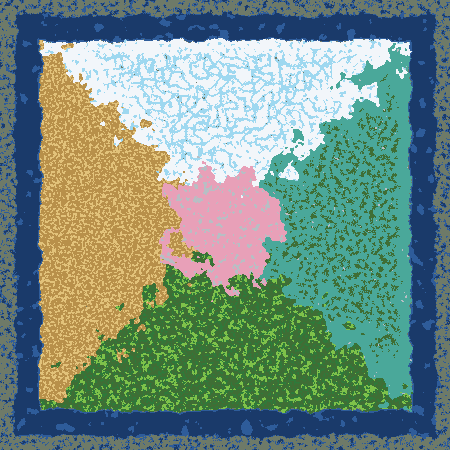
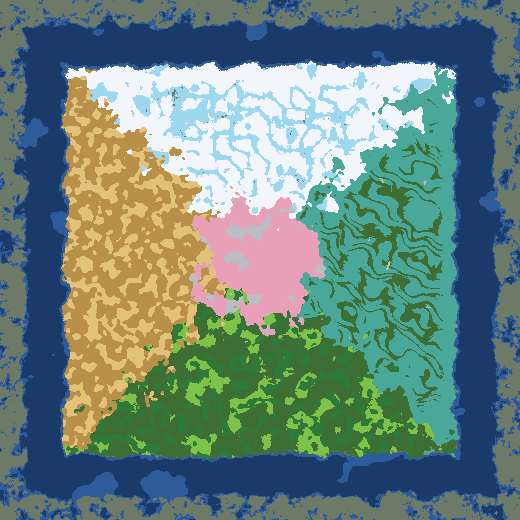
Shrink the Murim map to 40 000 x 40 000 blocks
Every region within a session's reach, room left for the sites, the capitals
and the roads. The regions' borders wander at the same relative scale; the
north's ranges and the east's hills are a little closer together. Old worlds
need a new one.

diff --git a/src/test/java/com/murimblock/world/map/MurimMapTest.java b/src/test/java/com/murimblock/world/map/MurimMapTest.java
@@ -10,34 +10,34 @@ class MurimMapTest {
     @Test
     void theRegionsLieWhereTheMapSays() {
         assertEquals(MurimMap.Region.CENTER, MurimMap.region(0, 0));
-        assertEquals(MurimMap.Region.NORTH, MurimMap.region(0, -60_000));
-        assertEquals(MurimMap.Region.SOUTH, MurimMap.region(0, 60_000));
-        assertEquals(MurimMap.Region.WEST, MurimMap.region(-60_000, 0));
-        assertEquals(MurimMap.Region.EAST, MurimMap.region(60_000, 0));
+        assertEquals(MurimMap.Region.NORTH, MurimMap.region(0, -16_000));
+        assertEquals(MurimMap.Region.SOUTH, MurimMap.region(0, 16_000));
+        assertEquals(MurimMap.Region.WEST, MurimMap.region(-16_000, 0));
+        assertEquals(MurimMap.Region.EAST, MurimMap.region(16_000, 0));
     }
 
     @Test
     void theAllianceOutpostsStandInTheCentreOrOnAFrontier() {
         assertTrue(MurimMap.centreOrFrontier(0, 0, 1500));
         // Deep in a region, far from any frontier: refused.
-        assertFalse(MurimMap.centreOrFrontier(0, -55_000, 1500));
-        assertFalse(MurimMap.centreOrFrontier(55_000, 0, 1500));
+        assertFalse(MurimMap.centreOrFrontier(0, -15_000, 1500));
+        assertFalse(MurimMap.centreOrFrontier(15_000, 0, 1500));
         // Walking out from the centre to the north, the frontier is crossed once: near it allowed, past it refused.
         int frontier = 0;
-        for (int z = 0; z > -60_000; z -= 100) if (MurimMap.region(0, z) != MurimMap.Region.CENTER) { frontier = z; break; }
-        assertTrue(frontier < -10_000, "the centre ends at " + frontier);
+        for (int z = 0; z > -18_000; z -= 50) if (MurimMap.region(0, z) != MurimMap.Region.CENTER) { frontier = z; break; }
+        assertTrue(frontier < -3_000, "the centre ends at " + frontier);
         assertTrue(MurimMap.centreOrFrontier(0, frontier - 800, 1500));
-        assertFalse(MurimMap.centreOrFrontier(0, frontier - 8_000, 1500));
+        assertFalse(MurimMap.centreOrFrontier(0, frontier - 5_000, 1500));
         // A frontier between two outer regions (on the diagonal, far out) also counts.
         boolean onDiagonal = false;
-        for (int k = 30_000; k < 60_000 && !onDiagonal; k += 500) onDiagonal = MurimMap.region(k, -k) != MurimMap.region(k + 3_000, -k + 3_000) && MurimMap.centreOrFrontier(k, -k, 1500);
+        for (int k = 6_000; k < 16_000 && !onDiagonal; k += 200) onDiagonal = MurimMap.region(k, -k) != MurimMap.region(k + 1_000, -k + 1_000) && MurimMap.centreOrFrontier(k, -k, 1500);
         assertTrue(onDiagonal);
     }
 
     @Test
     void theLayoutIsTheSameInEveryWorld() {
         // No seed in it: asked twice, the same answers.
-        for (int x = -70_000; x <= 70_000; x += 9_973) for (int z = -70_000; z <= 70_000; z += 7_919) {
+        for (int x = -18_000; x <= 18_000; x += 2_659) for (int z = -18_000; z <= 18_000; z += 2_111) {
             assertEquals(MurimMap.region(x, z), MurimMap.region(x, z));
         }
     }
@@ -45,36 +45,36 @@ class MurimMapTest {
     @Test
     void theBubbleIsLandAndTheRingIsDeepSea() {
         // Inside, even vanilla's deepest sea becomes land; the ring is deep sea whatever vanilla had; beyond, vanilla.
-        assertTrue(MurimMap.continents(10_000, -20_000, -1.0) >= MurimMap.LAND);
+        assertTrue(MurimMap.continents(3_000, -6_000, -1.0) >= MurimMap.LAND);
         assertEquals(0.7, MurimMap.continents(0, 0, 0.7), 1e-9);
-        assertTrue(MurimMap.inBubble(0, 0) && MurimMap.inBubble(70_000, -70_000));
-        assertFalse(MurimMap.inBubble(78_000, 0));
-        assertEquals(MurimMap.DEEP_SEA, MurimMap.continents(80_000, 0, 0.8), 1e-9);
-        assertEquals(MurimMap.DEEP_SEA, MurimMap.continents(-5_000, -81_000, 0.3), 1e-9);
-        assertEquals(0.42, MurimMap.continents(95_000, 0, 0.42), 1e-9);
+        assertTrue(MurimMap.inBubble(0, 0) && MurimMap.inBubble(18_500, -18_500));
+        assertFalse(MurimMap.inBubble(21_000, 0));
+        assertEquals(MurimMap.DEEP_SEA, MurimMap.continents(22_000, 0, 0.8), 1e-9);
+        assertEquals(MurimMap.DEEP_SEA, MurimMap.continents(-2_000, -22_000, 0.3), 1e-9);
+        assertEquals(0.42, MurimMap.continents(26_000, 0, 0.42), 1e-9);
         // The coastline wanders: not one straight edge.
-        double a = MurimMap.reach(75_000, 0), b = MurimMap.reach(75_000, 20_000);
+        double a = MurimMap.reach(20_000, 0), b = MurimMap.reach(20_000, 6_000);
         assertNotEquals(a, b, 1.0);
     }
 
     @Test
     void theNorthRisesIntoRangesTheEastAndSouthIntoHills() {
         // Nothing raised at the centre, in the west, nor in the ocean.
-        for (int[] p : new int[][]{{0, 0}, {-50_000, 0}, {0, -82_000}, {82_000, 0}}) {
+        for (int[] p : new int[][]{{0, 0}, {-13_000, 0}, {0, -22_000}, {22_000, 0}}) {
             assertEquals(0, MurimMap.uplift(p[0], p[1]), 1e-9, "raised at " + p[0] + ", " + p[1]);
         }
         // The east and the south: rolling hills, never more than the hills' height, the south's lower.
         double east = 0, south = 0;
-        for (int k = -15_000; k <= 15_000; k += 500) {
-            east = Math.max(east, MurimMap.uplift(50_000, k));
-            south = Math.max(south, MurimMap.uplift(k, 50_000));
+        for (int k = -4_000; k <= 4_000; k += 100) {
+            east = Math.max(east, MurimMap.uplift(13_000, k));
+            south = Math.max(south, MurimMap.uplift(k, 13_000));
         }
         assertTrue(east > MurimMap.HILLS * 0.5 && east <= MurimMap.HILLS + 1e-9, "the east's hills: " + east);
         assertTrue(south > 0 && south <= MurimMap.HILLS * 0.5 + 1e-9, "the south's hills: " + south);
         // The north: at least its plateau everywhere, and somewhere along it the ranges reach high.
         double highest = 0;
-        for (int x = -15_000; x <= 15_000; x += 500) { // the heart of the north (its edges fade out on purpose)
-            double u = MurimMap.uplift(x, -50_000);
+        for (int x = -4_000; x <= 4_000; x += 100) { // the heart of the north (its edges fade out on purpose)
+            double u = MurimMap.uplift(x, -13_000);
             assertTrue(u >= MurimMap.UPLIFT * MurimMap.PLATEAU - 1e-9, "no plateau at " + x);
             highest = Math.max(highest, u);
         }

diff --git a/src/main/java/com/murimblock/world/map/MurimMap.java b/src/main/java/com/murimblock/world/map/MurimMap.java
@@ -5,8 +5,9 @@ import net.minecraft.world.level.levelgen.XoroshiroRandomSource;
 import net.minecraft.world.level.levelgen.synth.SimplexNoise;
 
 /**
- * The map of the Murim world (docs/biomes/murim-map.md): a bubble of 150 000 x 150 000 blocks round the origin where
- * every land biome is a Murim one, an ocean 10 000 blocks wide around it, then the vanilla world.
+ * The map of the Murim world (docs/biomes/murim-map.md): a bubble of 40 000 x 40 000 blocks round the origin where
+ * every land biome is a Murim one, an ocean 4 000 blocks wide around it, then the vanilla world. (150 000 until
+ * 16/10/2026: Enzo chose a smaller world, every region within reach of a session, room left for the structures.)
  * <p>
  * Inside, the land is split into fixed regions, the same in every world (the seed only changes the biomes' patches
  * within a region, the relief and where the structures fall): the central mountains and valleys, the snows of the
@@ -14,14 +15,18 @@ import net.minecraft.world.level.levelgen.synth.SimplexNoise;
  * its own, seeded with a constant), so no line is straight.
  */
 public final class MurimMap {
-    /** Half the bubble's side: the Murim lands span -75 000 to 75 000 on both axes. */
-    public static final int RADIUS = 75_000;
+    /** Half the bubble's side: the Murim lands span -20 000 to 20 000 on both axes. */
+    public static final int RADIUS = 20_000;
     /** The ocean round the bubble. */
-    public static final int RING = 10_000;
+    public static final int RING = 4_000;
     /** Width of the shore at the bubble's edge, and of the ocean's return to the vanilla relief. */
-    public static final int EDGE = 2_000;
+    public static final int EDGE = 1_000;
     /** How far the coastline wanders from the square (blocks). */
-    public static final int COAST_WANDER = 1_500;
+    public static final int COAST_WANDER = 600;
+    /** The scale of the regions' wandering borders, against the map's first size (75 000). */
+    private static final double SCALE = RADIUS / 75_000.0;
+    /** The relief's fade towards the coast: from this far inside the shore, over this width. */
+    private static final int COAST_FADE_FROM = 1_000, COAST_FADE = 2_000;
 
     /** Continentalness kept at least inside (near inland: no sea), and the ocean's (deep ocean, not mushroom fields). */
     public static final double LAND = 0.05, SHORE_SEA = -0.6, DEEP_SEA = -0.8;
@@ -57,7 +62,7 @@ public final class MurimMap {
 
     /** A wandering of about -1 to 1, broad and then finer. */
     private static double wander(SimplexNoise noise, double x, double z) {
-        return 0.75 * noise.getValue(x / 14_000.0, z / 14_000.0) + 0.25 * noise.getValue(x / 3_500.0, z / 3_500.0);
+        return 0.75 * noise.getValue(x / (14_000.0 * SCALE), z / (14_000.0 * SCALE)) + 0.25 * noise.getValue(x / (3_500.0 * SCALE), z / (3_500.0 * SCALE));
     }
 
     /** How far out a block lies: the square's distance, its coastline wandering. */
@@ -132,7 +137,7 @@ public final class MurimMap {
         double v = (double) z / RADIUS + 0.16 * wander(noiseB, x, z);
         double r = Math.sqrt(u * u + v * v), a = Math.atan2(v, u);
         double out = smooth((r - CENTER_SHARE) / 0.12);
-        double coast = smooth((RADIUS - 3_000 - reach(x, z)) / 5_000);
+        double coast = smooth((RADIUS - COAST_FADE_FROM - reach(x, z)) / COAST_FADE);
         // The east sector (-pi/4 to pi/4) in full, the south (pi/4 to 3pi/4) at half.
         double east = smooth(Math.min(a + Math.PI / 4, Math.PI / 4 - a) / 0.22);
         double south = smooth(Math.min(a - Math.PI / 4, 3 * Math.PI / 4 - a) / 0.22) * 0.5;
@@ -140,8 +145,8 @@ public final class MurimMap {
         if (w <= 0) return 0;
         // Long hills: ridged noise stretched along one direction (turned 30 degrees off east, made to wander), so the
         // crests run on for kilometres, side by side, with long valleys between them.
-        double along = x * COS + z * SIN, across = -x * SIN + z * COS + 1_400 * noiseG.getValue(x / 6_000.0, z / 6_000.0);
-        double crest = 1 - Math.abs(noiseF.getValue(along / 9_000.0, across / 1_700.0));
+        double along = x * COS + z * SIN, across = -x * SIN + z * COS + 900 * noiseG.getValue(x / 3_500.0, z / 3_500.0);
+        double crest = 1 - Math.abs(noiseF.getValue(along / 5_000.0, across / 1_700.0));
         double fine = 1 - Math.abs(noiseG.getValue(along / 2_600.0, across / 650.0));
         double h = crest * crest * 0.75 + fine * fine * 0.25;
         return w * Math.max(0, (h - 0.3) / 0.7);
@@ -165,11 +170,11 @@ public final class MurimMap {
         // Inside the north sector (-3pi/4 to -pi/4), out of the centre, away from the coast: 1; fading over the edges.
         double sector = smooth(Math.min(a + 3 * Math.PI / 4, -Math.PI / 4 - a) / 0.22);
         double out = smooth((r - CENTER_SHARE) / 0.12);
-        double coast = smooth((RADIUS - 3_000 - reach(x, z)) / 5_000);
+        double coast = smooth((RADIUS - COAST_FADE_FROM - reach(x, z)) / COAST_FADE);
         double w = sector * out * coast;
         if (w <= 0) return new double[]{0, 0};
-        double broad = 1 - Math.abs(noiseD.getValue(x / 7_000.0, z / 7_000.0));
-        double fine = 1 - Math.abs(noiseE.getValue(x / 2_200.0, z / 2_200.0));
+        double broad = 1 - Math.abs(noiseD.getValue(x / 3_500.0, z / 3_500.0));
+        double fine = 1 - Math.abs(noiseE.getValue(x / 1_400.0, z / 1_400.0));
         double ridge = broad * broad * 0.7 + fine * fine * 0.3;
         return new double[]{w, Math.max(0, (ridge - 0.32) / 0.68)};
     }

diff --git a/src/gameTest/java/com/murimblock/MurimMapGameTests.java b/src/gameTest/java/com/murimblock/MurimMapGameTests.java
@@ -33,7 +33,7 @@ import org.slf4j.Logger;
 
 /**
  * The Murim map with the real noise (docs/biomes/murim-map.md): the "normal" world preset puts it on the overworld,
- * and over the whole map (a sample every 400 blocks, two seeds) every land block of the bubble has a Murim biome of
+ * and over the whole map (a sample every 100 blocks, two seeds) every land block of the bubble has a Murim biome of
  * its own region, the ring is deep ocean and the world beyond is vanilla. It also draws the map: murim-map-<seed>.png
  * in the GameTest server's folder (build/game-test-run).
  */
@@ -41,7 +41,7 @@ import org.slf4j.Logger;
 @PrefixGameTestTemplate(false)
 public final class MurimMapGameTests {
     private static final Logger LOGGER = LogUtils.getLogger();
-    private static final int HALF = 90_000, STEP = 400;
+    private static final int HALF = MurimMap.RADIUS + MurimMap.RING + 2_000, STEP = 100;
 
     private MurimMapGameTests() { }
 
@@ -78,7 +78,7 @@ public final class MurimMapGameTests {
     }
 
     /**
-     * The north's ranges: the ground's height over the whole north (a point every 1 000 blocks), with the real terrain
+     * The north's ranges: the ground's height over the whole north (a point every 250 blocks), with the real terrain
      * noise. Immense (the highest well above vanilla's usual peaks) without ever reaching the world's ceiling.
      */
     @GameTest(template = "foundation_arena", batch = "murim_map_heights", timeoutTicks = 2000)
@@ -94,7 +94,7 @@ public final class MurimMapGameTests {
         var heightAccessor = net.minecraft.world.level.LevelHeightAccessor.create(-64, 384);
         int highest = 0, count = 0, above200 = 0;
         long sum = 0;
-        for (int x = -60_000; x <= 60_000; x += 1_000) for (int z = -72_000; z <= -25_000; z += 1_000) {
+        for (int x = -16_000; x <= 16_000; x += 250) for (int z = -19_000; z <= -6_000; z += 250) {
             if (MurimMap.region(x, z) != MurimMap.Region.NORTH) continue;
             int h = generator.getBaseHeight(x, z, net.minecraft.world.level.levelgen.Heightmap.Types.WORLD_SURFACE_WG, heightAccessor, state);
             highest = Math.max(highest, h);
@@ -138,12 +138,12 @@ public final class MurimMapGameTests {
                     wrong++;
                     if (firstWrong == null) firstWrong = key.location() + " in the " + region + " at " + x + ", " + z;
                 }
-            } else if (reach < MurimMap.RADIUS - 3_000 && !sea && !b.is(BiomeTags.IS_BEACH) && !b.is(BiomeTags.IS_RIVER)
+            } else if (reach < MurimMap.RADIUS - MurimMap.EDGE - 200 && !sea && !b.is(BiomeTags.IS_BEACH) && !b.is(BiomeTags.IS_RIVER)
                     && !b.is(net.minecraft.world.level.biome.Biomes.DRIPSTONE_CAVES) && !b.is(net.minecraft.world.level.biome.Biomes.LUSH_CAVES)
                     && !b.is(net.minecraft.world.level.biome.Biomes.DEEP_DARK)) {
                 insideVanillaLand++;
             }
-            if (reach > MurimMap.RADIUS + 2_500 && reach < MurimMap.RADIUS + MurimMap.RING - 2_500 && !sea) ringLand++;
+            if (reach > MurimMap.RADIUS + MurimMap.EDGE + 200 && reach < MurimMap.RADIUS + MurimMap.RING - MurimMap.EDGE - 200 && !sea) ringLand++;
             int colour = COLOURS.getOrDefault(key, sea ? (b.is(BiomeTags.IS_DEEP_OCEAN) ? 0x1A3A6A : 0x2E5C9A) : 0x6E7A68);
             map.setRGB(px, pz, colour);
         }

diff --git a/src/gameTest/java/com/murimblock/BiomeTour.java b/src/gameTest/java/com/murimblock/BiomeTour.java
@@ -91,7 +91,7 @@ public final class BiomeTour {
 
     /** Where to look for a biome on the Murim map: the heart of its region (the centre's own at the origin). */
     static BlockPos regionHeart(ResourceKey<Biome> biome) {
-        int far = 45_000;
+        int far = com.murimblock.world.map.MurimMap.RADIUS * 3 / 5;
         if (biome == MurimBiomes.TIANSHAN_SNOWFIELDS || biome == MurimBiomes.KUNLUN_GLACIERS) return new BlockPos(0, 80, -far);
         if (biome == MurimBiomes.HEXI_FRONTIER_DESERT || biome == MurimBiomes.LOESS_PLATEAU) return new BlockPos(-far, 80, 0);
         if (biome == MurimBiomes.JADE_KARST_FOREST || biome == MurimBiomes.SHU_BAMBOO_SEA) return new BlockPos(0, 80, far);
@@ -338,15 +338,15 @@ public final class BiomeTour {
     private static void coast(Minecraft mc) throws Exception {
         coastTicks++;
         var server = mc.getSingleplayerServer();
-        int shore = com.murimblock.world.map.MurimMap.RADIUS - 1_500;
+        int shore = com.murimblock.world.map.MurimMap.RADIUS - 400;
         switch (coastTicks) {
             case 1 -> server.execute(() -> {
                 ServerLevel level = server.overworld();
                 var source = level.getChunkSource().getGenerator().getBiomeSource();
                 var sampler = level.getChunkSource().randomState().sampler();
                 java.util.function.IntFunction<String> at = x -> source.getNoiseBiome(x >> 2, 200 >> 2, 0, sampler).unwrapKey().map(k -> k.location().toString()).orElse("?");
-                String ring = at.apply(com.murimblock.world.map.MurimMap.RADIUS + 5_000), beyond = at.apply(com.murimblock.world.map.MurimMap.RADIUS + 20_000);
-                String line = "coast: " + at.apply(shore - 3_000) + " inland, " + ring + " in the ring, " + beyond + " beyond it";
+                String ring = at.apply(com.murimblock.world.map.MurimMap.RADIUS + com.murimblock.world.map.MurimMap.RING / 2), beyond = at.apply(com.murimblock.world.map.MurimMap.RADIUS + com.murimblock.world.map.MurimMap.RING + 6_000);
+                String line = "coast: " + at.apply(shore - 1_000) + " inland, " + ring + " in the ring, " + beyond + " beyond it";
                 report.add(line);
                 LOGGER.info("Biome tour: {}", line);
                 if (!ring.contains("ocean")) failed = true;

diff --git a/src/gameTest/java/com/murimblock/TigerGameTests.java b/src/gameTest/java/com/murimblock/TigerGameTests.java
@@ -87,11 +87,11 @@ public final class TigerGameTests {
 
     @GameTest(template = "foundation_arena", batch = "tiger")
     public static void theTigerLivesOnlyInTheCentreOfTheMap(GameTestHelper helper) {
-        helper.assertTrue(TigerEntity.inItsLands(0, 0) && TigerEntity.inItsLands(8_000, -5_000), "No tiger in the centre");
-        helper.assertFalse(TigerEntity.inItsLands(0, -55_000), "A tiger in the north");
-        helper.assertFalse(TigerEntity.inItsLands(55_000, 0), "A tiger in the east");
-        helper.assertFalse(TigerEntity.inItsLands(0, 55_000) || TigerEntity.inItsLands(-55_000, 0), "A tiger in the south or the west");
-        helper.assertFalse(TigerEntity.inItsLands(90_000, 0), "A tiger beyond the Murim bubble");
+        helper.assertTrue(TigerEntity.inItsLands(0, 0) && TigerEntity.inItsLands(2_500, -1_500), "No tiger in the centre");
+        helper.assertFalse(TigerEntity.inItsLands(0, -15_000), "A tiger in the north");
+        helper.assertFalse(TigerEntity.inItsLands(15_000, 0), "A tiger in the east");
+        helper.assertFalse(TigerEntity.inItsLands(0, 15_000) || TigerEntity.inItsLands(-15_000, 0), "A tiger in the south or the west");
+        helper.assertFalse(TigerEntity.inItsLands(30_000, 0), "A tiger beyond the Murim bubble");
         var level = helper.getLevel();
         var tiger = helper.spawn(MurimEntities.TIGER.get(), new BlockPos(2, 1, 2));
         helper.assertTrue(TigerEntity.checkTigerSpawnRules(MurimEntities.TIGER.get(), level, MobSpawnType.SPAWNER, tiger.blockPosition(), level.random),

diff --git a/src/main/java/com/murimblock/world/map/MurimSpawn.java b/src/main/java/com/murimblock/world/map/MurimSpawn.java
@@ -15,7 +15,7 @@ import net.neoforged.neoforge.event.level.LevelEvent;
  */
 public final class MurimSpawn {
     /** How far from the centre the spawn may be drawn, and the highest ground it may stand on. */
-    public static final int REACH = 60_000, HIGHEST = 140;
+    public static final int REACH = MurimMap.RADIUS * 3 / 5, HIGHEST = 140;
     private static final int TRIES = 200;
 
     private MurimSpawn() {

diff --git a/docs/biomes/murim-map.md b/docs/biomes/murim-map.md
@@ -4,14 +4,16 @@
 
 ![La carte de la graine 1](images/murim-map-1.png)
 
-*Un pixel = 400 blocs. Blanc : neiges du Tianshan ; bleu glacier : chaînes du Kunlun ; vert sombre : collines aux camphriers ; ocre et brun : désert du Hexi et plateau de lœss ; vert vif et vert sombre : mer de bambous et karst ; turquoise : pays des eaux ; rose : vallée des pêchers ; gris clair : pics de la mer de nuages ; bleu nuit : l'océan ; au-delà, le monde vanilla.*
+*Un pixel = 100 blocs. Blanc : neiges du Tianshan ; bleu glacier : chaînes du Kunlun ; vert sombre : collines aux camphriers ; ocre et brun : désert du Hexi et plateau de lœss ; vert vif et vert sombre : mer de bambous et karst ; turquoise : pays des eaux ; rose : vallée des pêchers ; gris clair : pics de la mer de nuages ; bleu nuit : l'océan ; au-delà, le monde vanilla.*
 
 ## Les grandes lignes
 
+> **16/10/2026 : carte réduite de 150 000 à 40 000 blocs de côté** (demande d'Enzo : « la plus optimale, mais avec vraiment de la place pour les structures »). À 150 000, une région était à des heures de cheval de la suivante ; à 40 000, le cœur de chaque région est à environ 12 000 blocs du centre (une vingtaine de minutes à cheval), chaque région extérieure fait encore près de 19 000 × 19 000 blocs, de quoi placer des milliers de sites, les capitales et les routes. Les bordures des régions ondulent à la même échelle relative ; les chaînes du nord et les collines de l'est sont un peu plus serrées. La taille ne pèse rien pour le PC (Minecraft ne génère que ce qui est visité). **Les mondes créés avant restent incompatibles** : il faut un monde neuf.
+
 | Zone | Où | Ce qu'il y a |
 |---|---|---|
-| **La bulle Murim** | Un carré de **150 000 × 150 000 blocs** centré sur l'origine (de −75 000 à +75 000 sur chaque axe), au littoral irrégulier | Uniquement des biomes Murim sur la terre ferme ; ni mer ni océan à l'intérieur (les rivières restent) |
-| **L'océan** | Un anneau de **10 000 blocs** autour de la bulle | Océan profond (gelé au nord, tiède au sud : c'est vanilla qui le colore selon le climat) |
+| **La bulle Murim** | Un carré de **40 000 × 40 000 blocs** centré sur l'origine (de −20 000 à +20 000 sur chaque axe), au littoral irrégulier | Uniquement des biomes Murim sur la terre ferme ; ni mer ni océan à l'intérieur (les rivières restent) |
+| **L'océan** | Un anneau de **4 000 blocs** autour de la bulle | Océan profond (gelé au nord, tiède au sud : c'est vanilla qui le colore selon le climat) |
 | **Le monde vanilla** | Au-delà | Minecraft normal, sans biome Murim |
 
 ## Les régions, fixes dans chaque monde
@@ -20,7 +22,7 @@ La disposition est **la même dans tous les mondes** : on sait où est chaque ty
 
 | Région | Où | Biomes (selon le relief et l'humidité) |
 |---|---|---|
-| **Centre** : montagnes et vallées sacrées | Un disque d'environ 22 000 blocs de rayon autour de l'origine | Pics de la mer de nuages sur les montagnes, vallée des fleurs de pêcher ailleurs |
+| **Centre** : montagnes et vallées sacrées | Un disque d'environ 6 000 blocs de rayon autour de l'origine | Pics de la mer de nuages sur les montagnes, vallée des fleurs de pêcher ailleurs |
 | **Nord** : les neiges | Vers −z | Glaciers du Kunlun sur les montagnes, champs de neige du Tianshan ailleurs |
 | **Ouest** : les terres sèches | Vers −x | Désert du Hexi là où c'est sec, plateau de lœss ailleurs |
 | **Sud** : les terres humides et les plaines | Vers +z | Karst de jade là où c'est humide, collines aux camphriers sur les terres douces, mer de bambous sur les reliefs ; de basses collines |
@@ -44,14 +46,14 @@ Demande d'Enzo : « de vrais biomes avec d'immenses montagnes de glace cachant d
 - **`MurimContinents`** remplace la « continentalité » de vanilla (`data/minecraft/worldgen/density_function/overworld/continents.json`) : de la terre partout dans la bulle, une côte au bord, l'océan profond dans l'anneau, puis le relief vanilla. Le relief et le choix des biomes de vanilla voient donc la même carte.
 - **Le préréglage de monde « normal »** (`data/minecraft/worldgen/world_preset/normal.json`) met cette source sur l'Overworld. Il ne s'applique qu'aux **nouveaux mondes** (un monde existant garde sa génération). Les mondes plats et les « grands biomes » ne sont pas concernés ; le mode « amplifié » garde ses biomes vanilla mais reçoit la bulle de terre et l'anneau d'océan.
 - **TerraBlender** ne place plus les biomes Murim (sa région Murim est retirée) ; il applique encore leurs règles de surface (choisies selon l'espace de noms du biome), qu'il n'allume que pour ses propres sources de biomes : `MurimSurface` les allume pour la carte Murim au démarrage du serveur.
-- **Le point d'apparition** (`MurimSpawn`) : tiré au hasard à la création du monde, à moins de 60 000 blocs du centre, sur la terre d'un biome Murim, ni dans l'eau ni au-dessus de y = 140. Plus tard, il dépendra de la famille du joueur.
+- **Le point d'apparition** (`MurimSpawn`) : tiré au hasard à la création du monde, à moins de 12 000 blocs du centre, sur la terre d'un biome Murim, ni dans l'eau ni au-dessus de y = 140. Plus tard, il dépendra de la famille du joueur.
 - **Les structures** (les sites Murim, le sanctuaire) gardent leurs règles : chacune dans son biome, à un endroit tiré au hasard.
 - **L'avant-poste de l'Alliance** (15/10) suit la carte : n'importe quel biome Murim, mais seulement au centre ou à moins de 1 500 blocs d'une frontière entre régions (`MurimMap.centreOrFrontier`, [fiche](../structures/alliance-outpost.md)).
 
 ## Vérifications
 
 - `MurimMapTest` (tests unitaires) : régions aux bons endroits, même disposition partout, terre dans la bulle, océan profond dans l'anneau, vanilla au-delà, côte irrégulière, biome choisi par région.
-- `MurimMapGameTests` : le préréglage « normal » charge bien la carte ; sur toute la carte (un point tous les 400 blocs, deux graines), chaque terre de la bulle a un biome de sa région, l'anneau n'a pas de terre, aucun biome terrestre vanilla dans la bulle ; la carte est dessinée en PNG (`build/game-test-run/murim-map-<graine>.png`).
+- `MurimMapGameTests` : le préréglage « normal » charge bien la carte ; sur toute la carte (un point tous les 100 blocs, deux graines), chaque terre de la bulle a un biome de sa région, l'anneau n'a pas de terre, aucun biome terrestre vanilla dans la bulle ; la carte est dessinée en PNG (`build/game-test-run/murim-map-<graine>.png`).
 - `runBiomeTour` (vrai client, monde neuf) : le point d'apparition, chaque biome visité au cœur de sa région (avec une vue lointaine ; le Kunlun vu d'en bas), la côte et l'anneau.
 
 ## Plus tard

diff --git a/docs/README.md b/docs/README.md
@@ -8,7 +8,7 @@
 - [Clear Manuscript](gui/TAB_LAYOUT.md): current GUI, not the V4 reference.
 - [Qi rewards](QI_REWARDS.md): balance and temporary anti-farm history.
 - [Qi and cultivation](cultivation/qi-cultivation.md): meditation, aura, breakthroughs, the inner world and the Heart Demon, Qi Sense, elixirs, realm bonuses (14 October, on test).
-- [Murim map](biomes/murim-map.md): the 150 000-block Murim bubble with fixed regions, its ocean ring, the two northern biomes (14 October, on test).
+- [Murim map](biomes/murim-map.md): the 40 000-block Murim bubble (150 000 until 16 October) with fixed regions, its ocean ring, the two northern biomes (14 October, on test).
 - [Technique balance](combat/technique-balance.md): technique damage by weapon and by Qi Max, and no combo that kills at once (14 October, on test).
 - [Armored crab](ARMORED_CRAB_DELIVERY.md): integrated assets, behavior and local verification.
 - [Bandit Chief](mobs/bandit-chief.md): the bandits' mini-boss, his great axe and attacks.

diff --git a/docs/lore/README.md b/docs/lore/README.md
@@ -21,7 +21,7 @@
 
 ## 2. Le Murim (武林, « la forêt des arts martiaux »)
 
-- **Le Murim** est une terre close de 150 000 blocs de côté : c'est la carte Murim. Ses habitants l'appellent simplement « le Murim » ou « le monde sous le Ciel » (天下).
+- **Le Murim** est une terre close de 40 000 blocs de côté : c'est la carte Murim. Ses habitants l'appellent simplement « le Murim » ou « le monde sous le Ciel » (天下).
 - **La Mer sans fin** (无尽海) l'entoure. Selon la légende, les Immortels l'ont tracée pour que les guerres des hommes du Murim ne débordent jamais sur le reste du monde.
 - **Au-delà de la mer**, il y aurait des terres sans Qi, les **Terres stériles** : le monde vanilla. Les gens du Murim n'y croient qu'à moitié. Aucun cultivateur qui y est parti n'en est revenu.
 - **Le Qi du Ciel et de la Terre** (天地之气) coule dans le sol le long des **veines du dragon** (龙脉).

diff --git a/docs/biomes/README.md b/docs/biomes/README.md
@@ -2,7 +2,7 @@
 
 Dix biomes inspirés des vrais paysages chinois tels qu'ils étaient à l'époque impériale (des Tang aux Ming), avant les déforestations, les barrages et les villes modernes : sept du premier jet, et depuis le 14/10/2026 les deux neiges du nord (Tianshan et Kunlun) et les collines aux camphriers du sud et de l'est.
 
-**Depuis le 14/10/2026, ils ne se mélangent plus au monde vanilla : ils forment la [carte Murim](murim-map.md)**, une bulle de 150 000 × 150 000 blocs aux régions fixes (centre, nord, ouest, sud, est), entourée de 10 000 blocs d'océan, puis le monde vanilla.
+**Depuis le 14/10/2026, ils ne se mélangent plus au monde vanilla : ils forment la [carte Murim](murim-map.md)**, une bulle de 40 000 × 150 000 blocs aux régions fixes (centre, nord, ouest, sud, est), entourée de 10 000 blocs d'océan, puis le monde vanilla.
 
 ![La carte Murim](images/murim-map-1.png)
 
